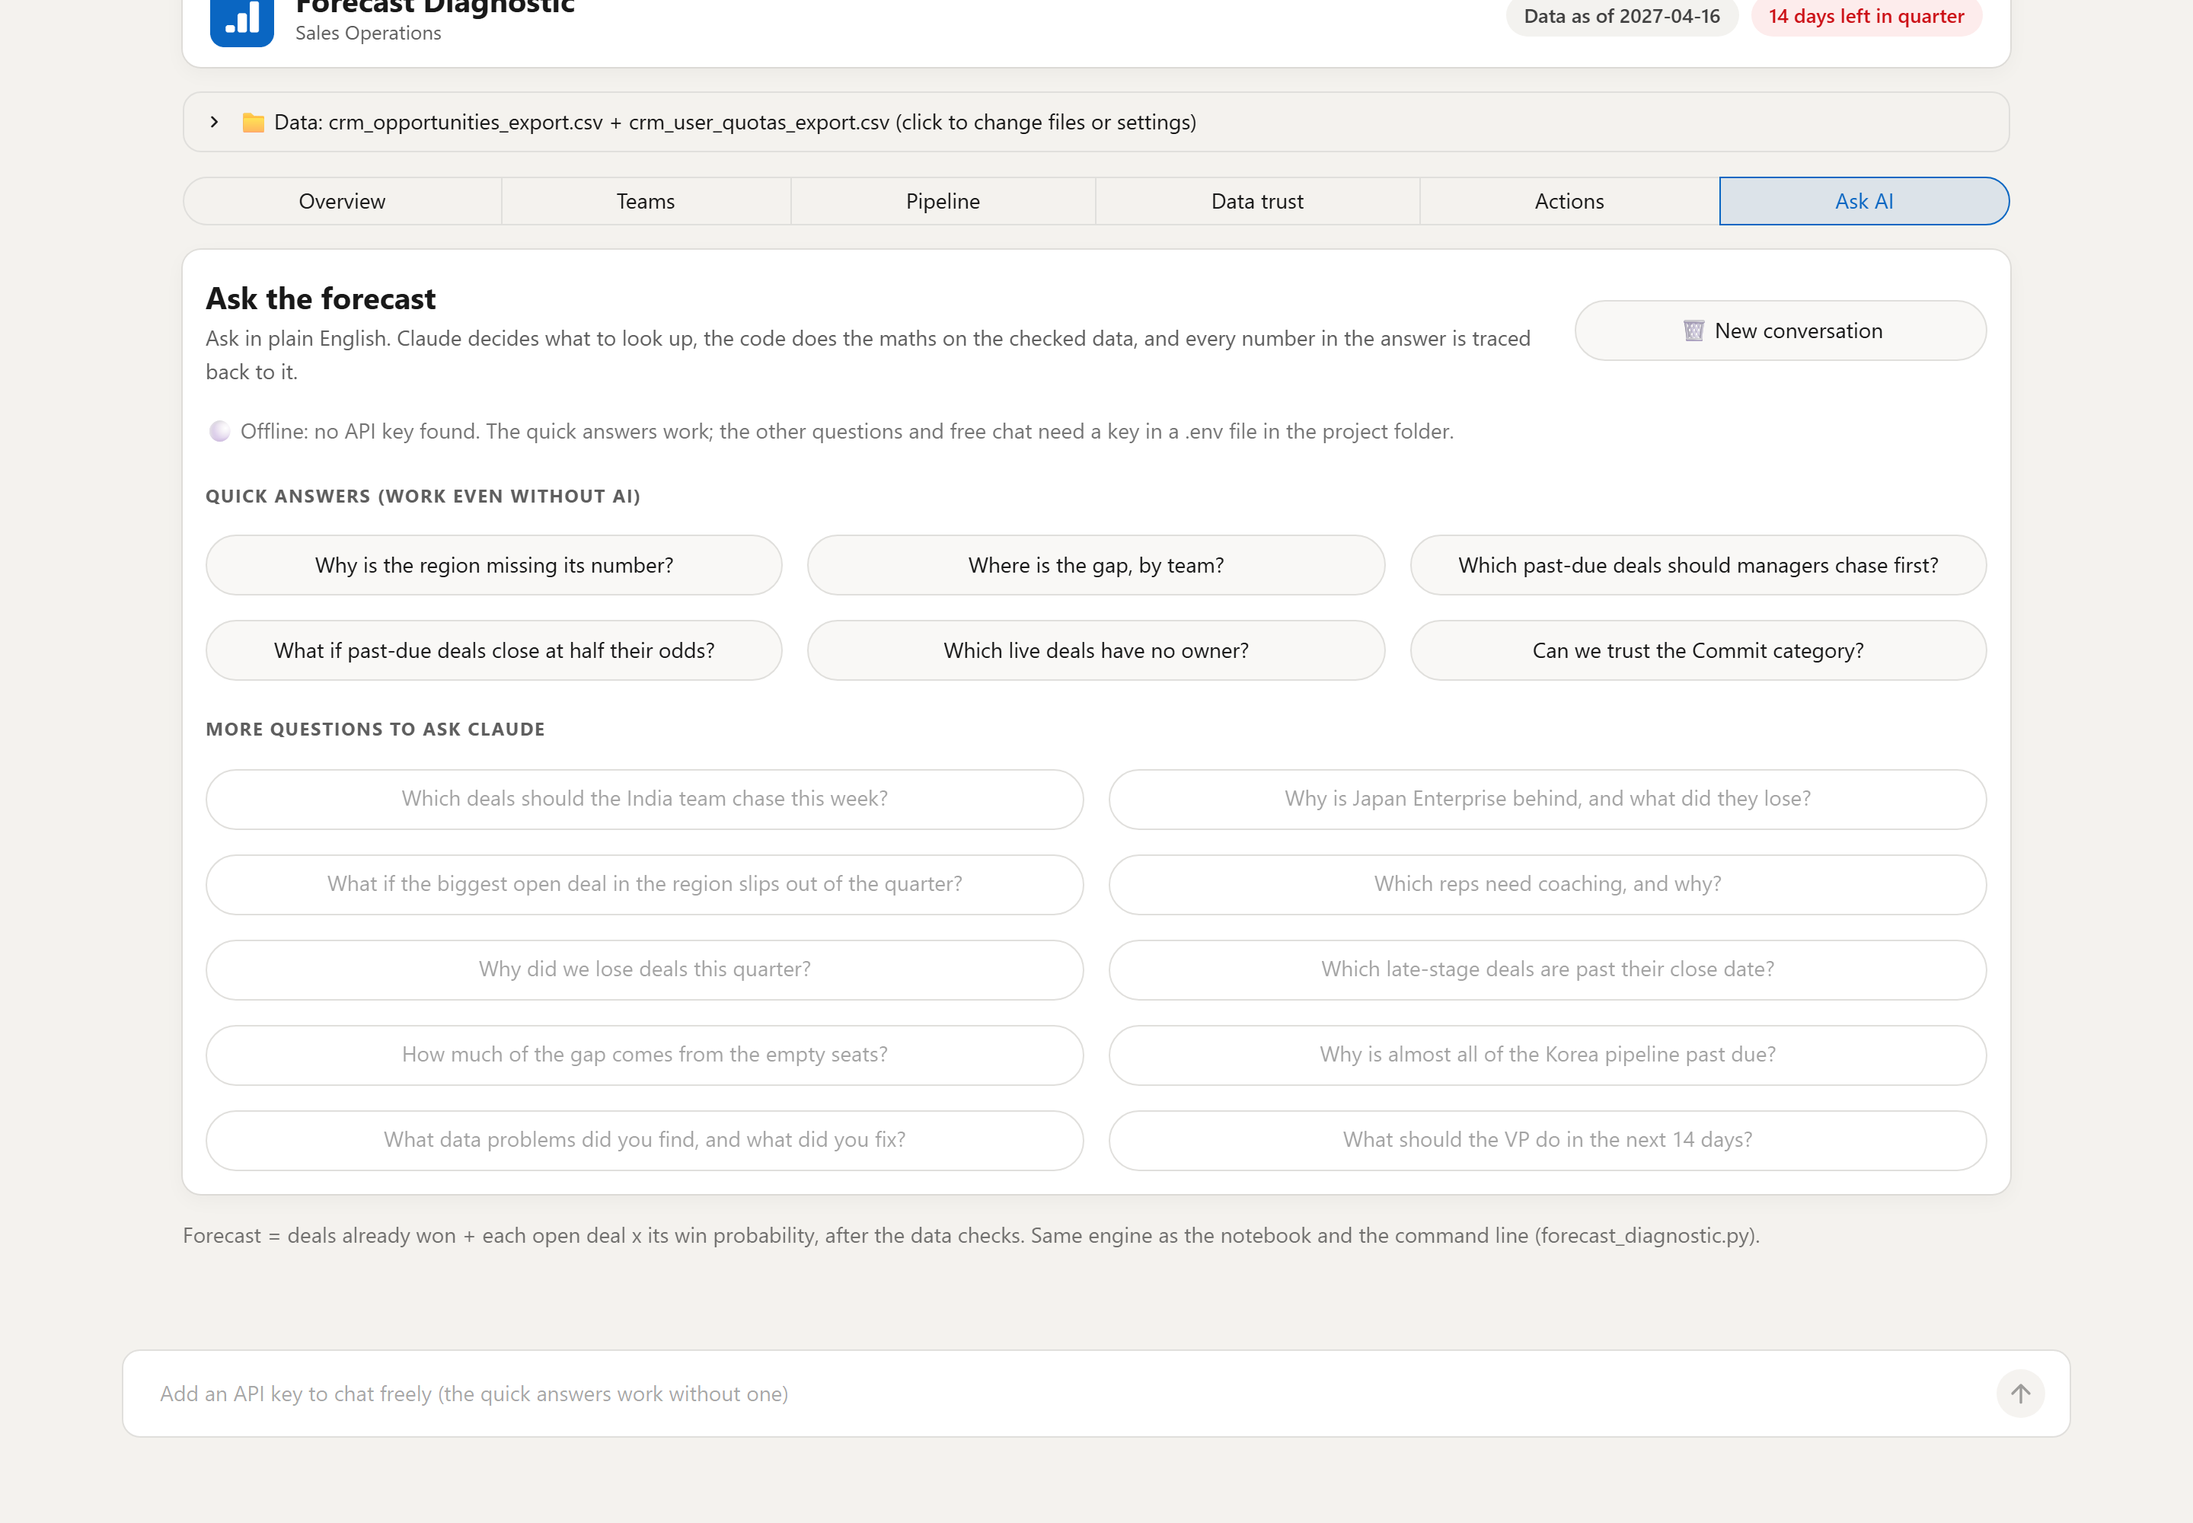
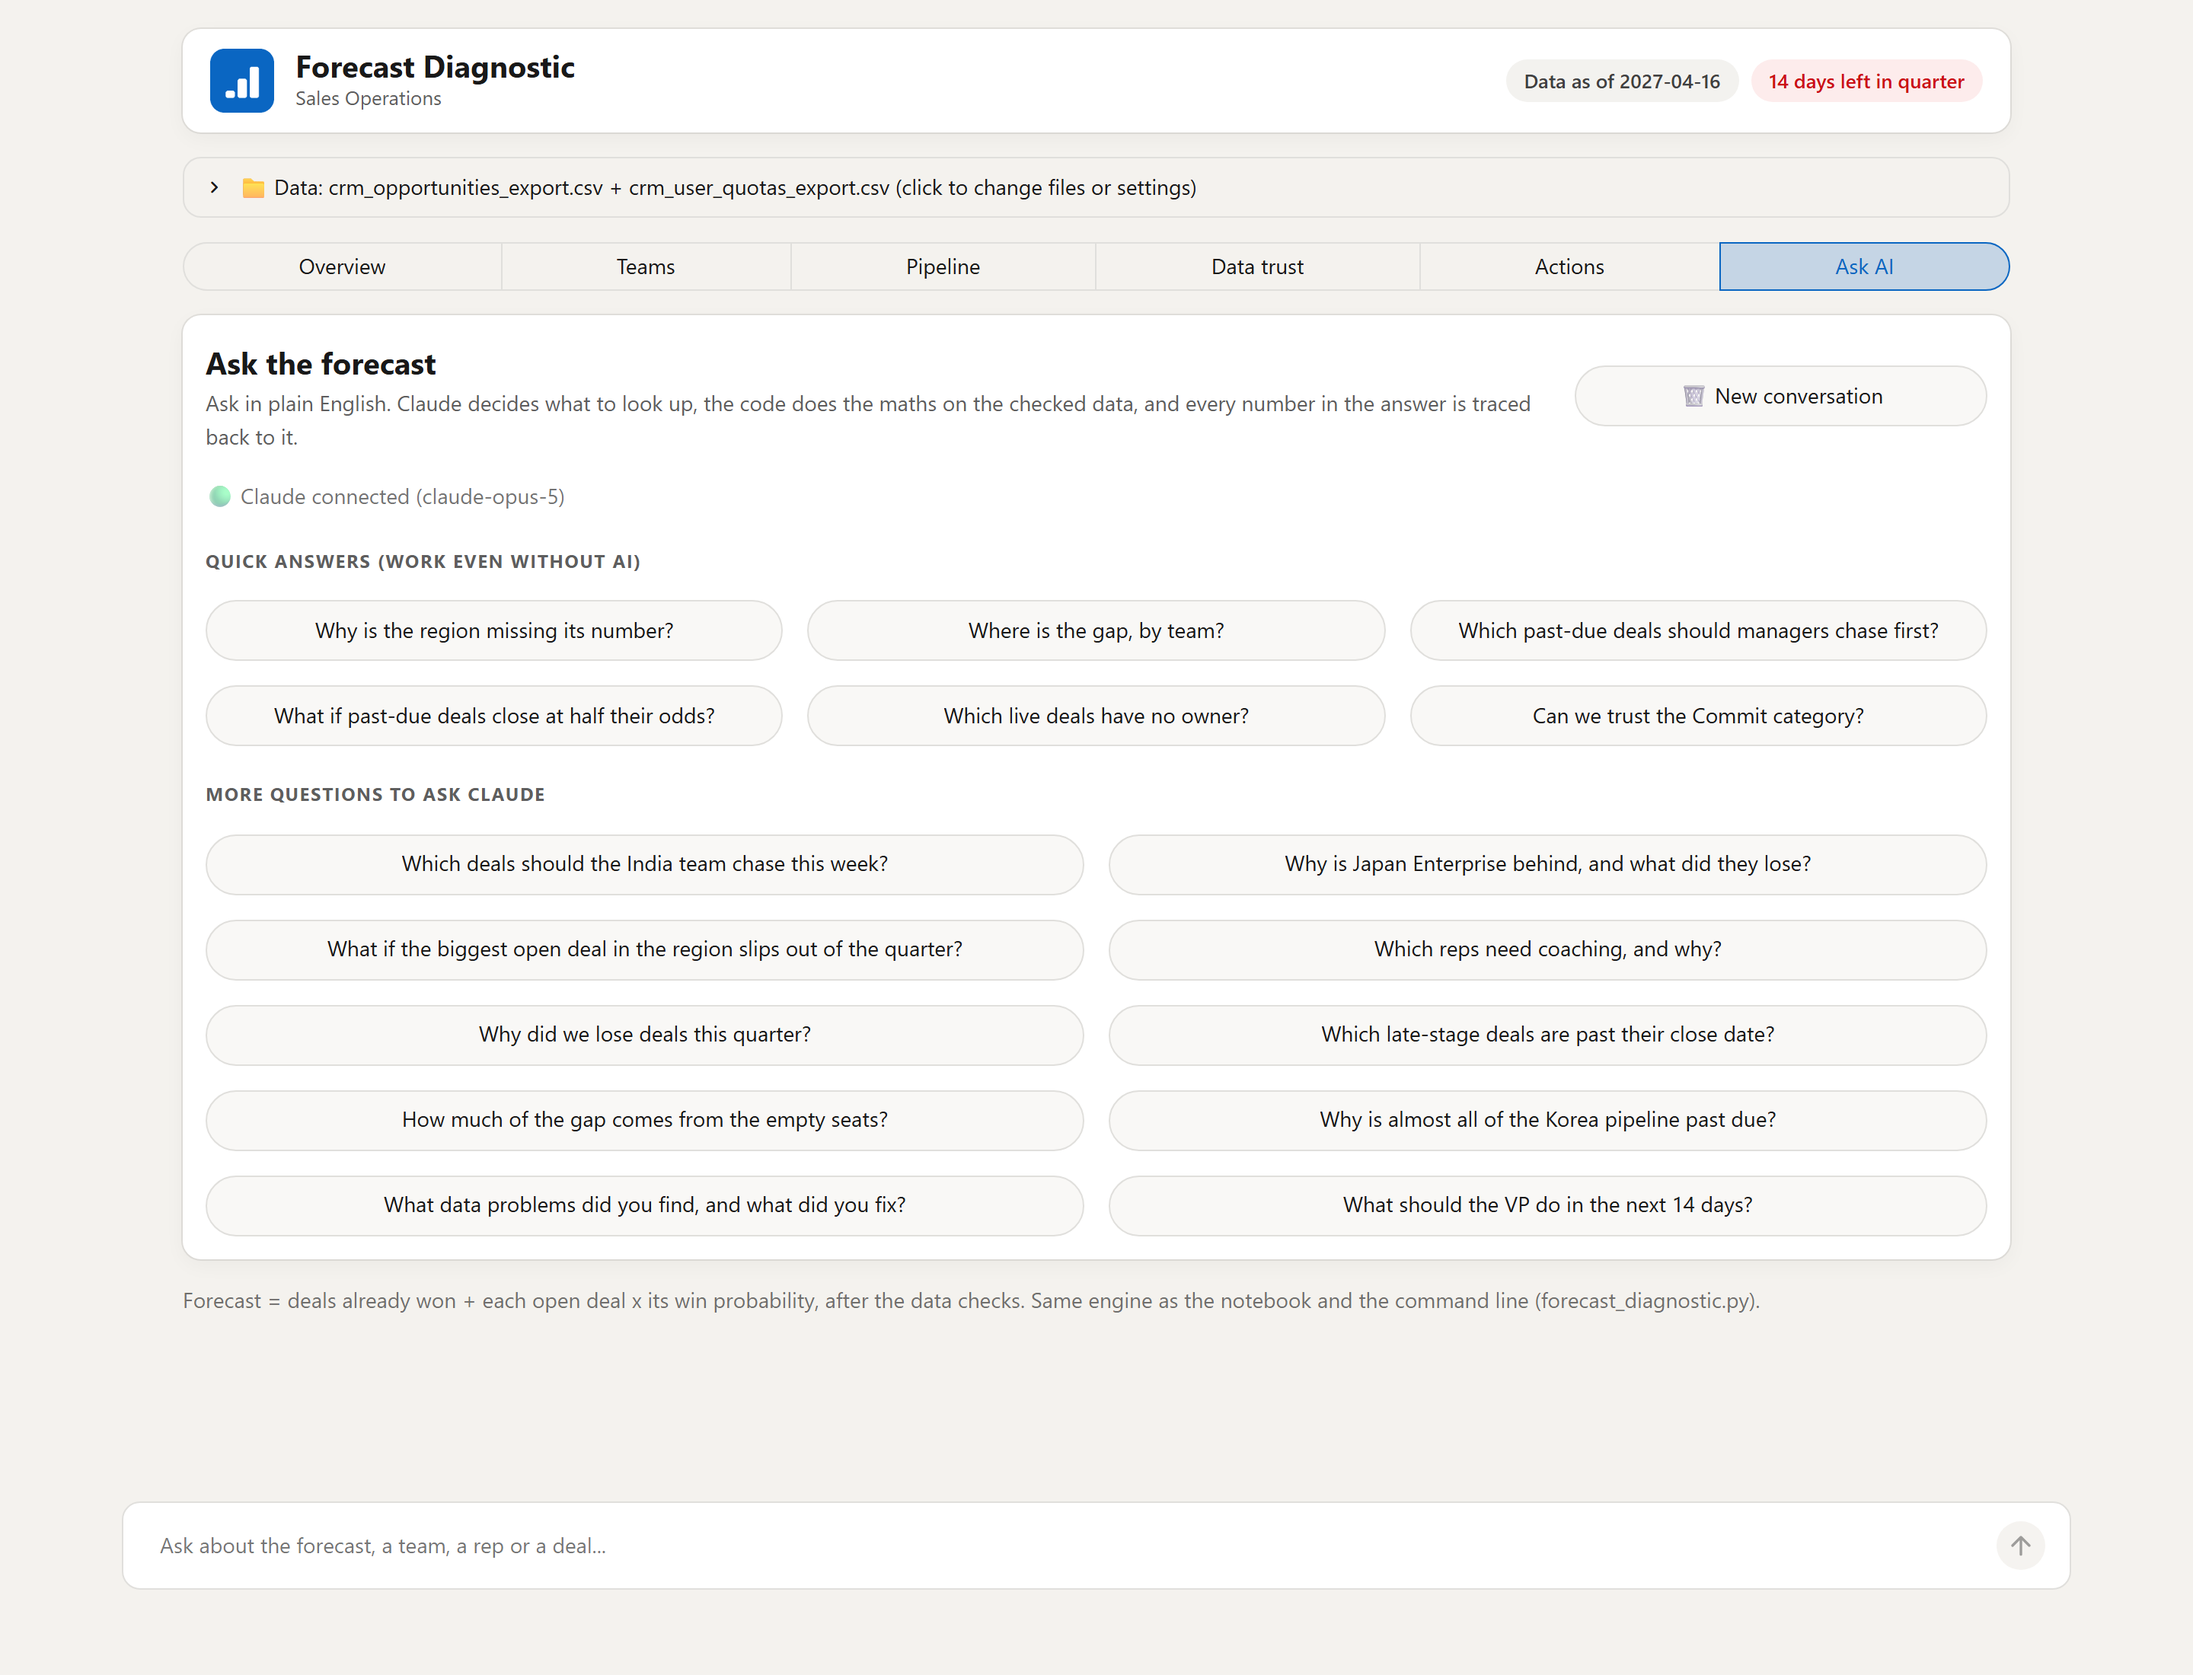
Screenshots from a working instance, and stop markdown eating the model's tildes
- Ask AI screenshots retaken with an API key present: the page shows "Claude connected", and the second
  one is a live answer with its tool trace and per-number check (two derived figures flagged for review)
- app.md(): escape "~" as well as "$", so "~57% of the gap" no longer renders as strikethrough
- README: the live answer is now the illustration for the verification section

diff --git a/app.py b/app.py
@@ -156,7 +156,8 @@ esc = html.escape
 
 
 def md(text: str):
-    st.markdown(text.replace("$", r"\$"))  # "$...$" would otherwise render as a LaTeX formula
+    # "$...$" would otherwise render as a LaTeX formula, and "~90%" as strikethrough
+    st.markdown(text.replace("$", r"\$").replace("~", r"\~"))
 
 
 def table(df: pd.DataFrame, money=(), pct=(), dec=(), height="auto", column_config=None):

diff --git a/README.md b/README.md
@@ -103,7 +103,11 @@ if not check["verified"].all():         # one untraceable number and the draft i
 ```
 
 The guardrail is covered by a test that feeds it invented numbers and asserts they are caught
-([`tests/test_pipeline.py`](tests/test_pipeline.py)).
+([`tests/test_pipeline.py`](tests/test_pipeline.py)). Here it is on a live answer: the agent ran three
+look-ups, wrote the answer from their output, and the two figures it derived itself were flagged before
+anyone could pass them on.
+
+![A live answer with its tool trace and number check](docs/img/dashboard_ask_ai_answer.png)
 
 The AI features are **optional**: with no API key, the toolkit, the dashboard and the deterministic summary
 all still work, and the output records which path was used.
